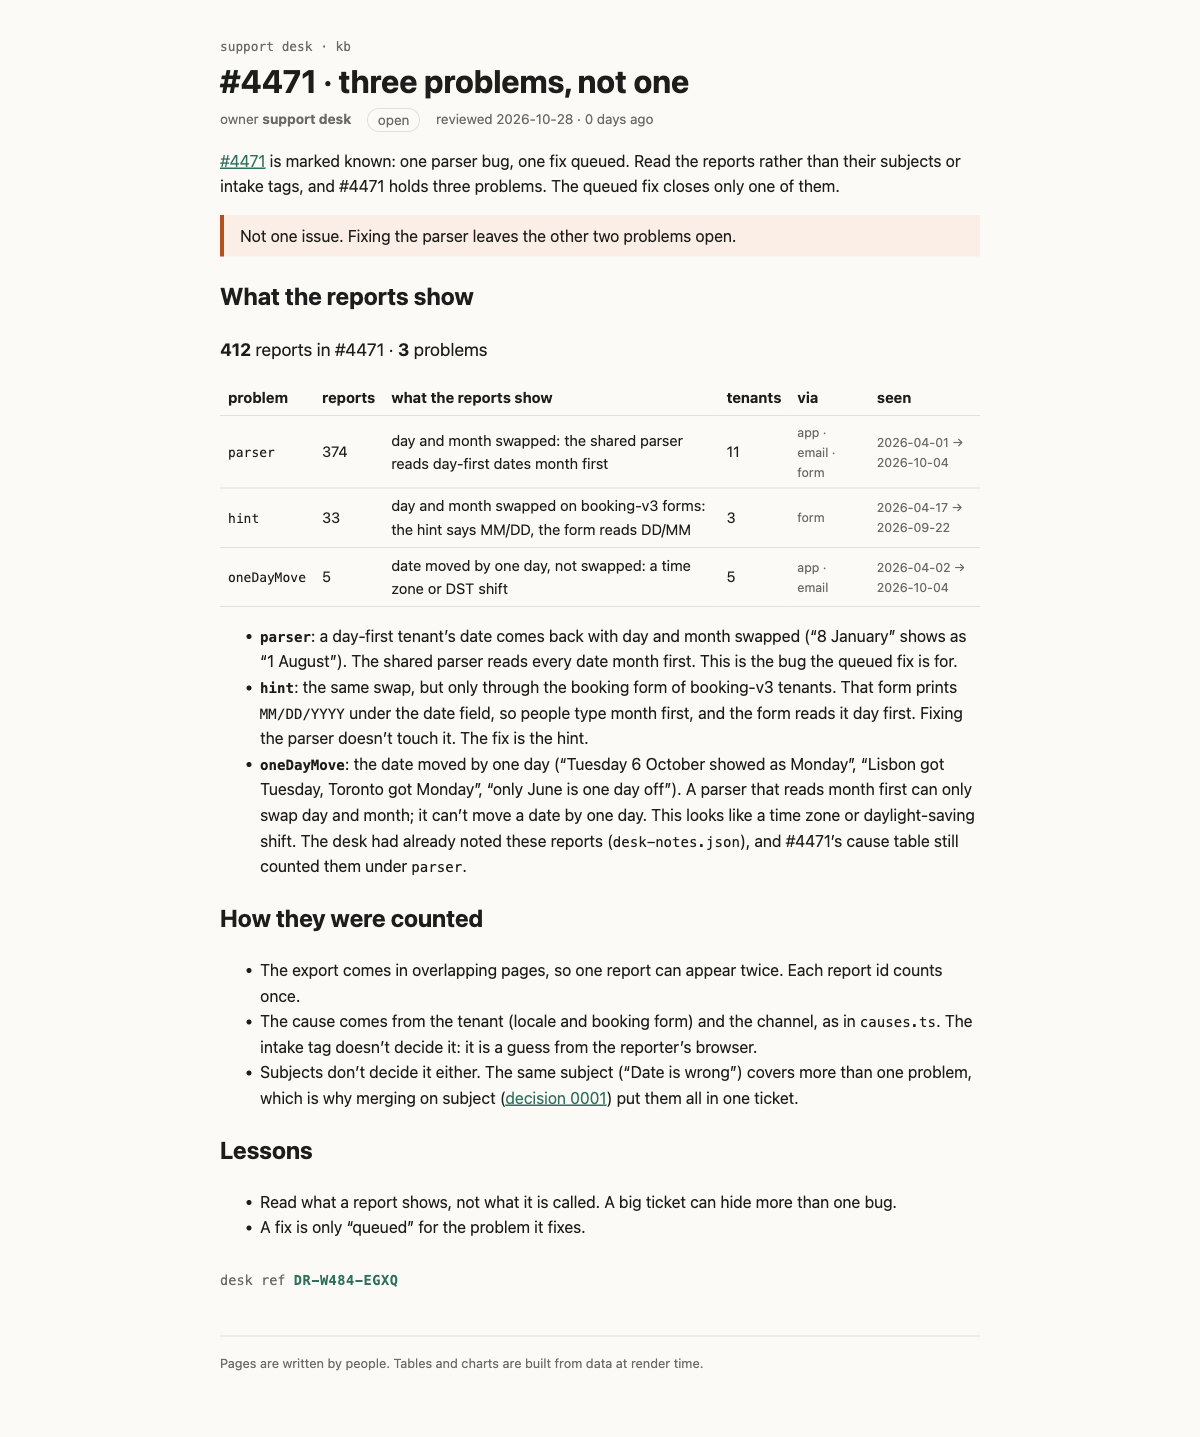
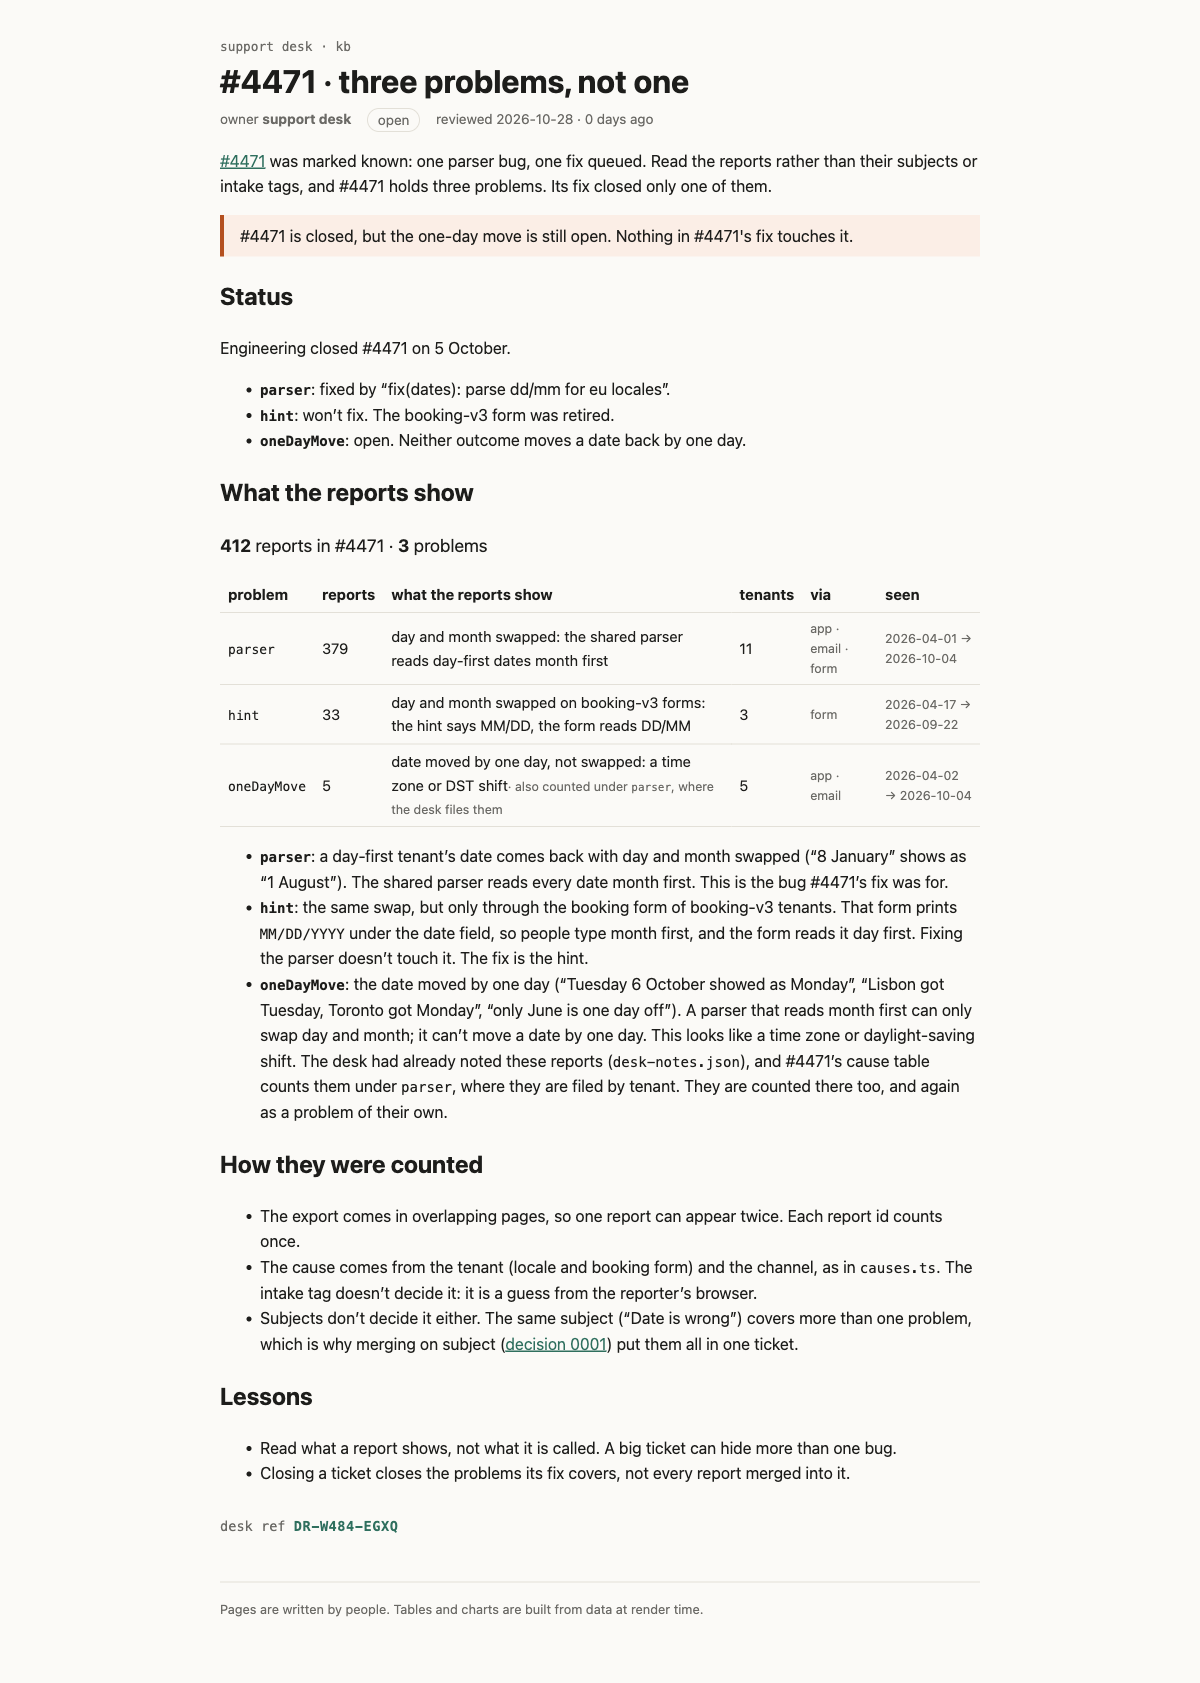
Count #4471 the desk's way and add its status
Parser counts every report filed under it (379), including the 5
one-day moves, which also get their own row. Adds the engineering
outcome: parser fixed, hint won't fix, oneDayMove still open.

Changed region(s): [[0.185, 0.0, 0.8017, 0.9186], [0.185, 0.9492, 0.5858, 0.9798], [0.6167, 0.2756, 0.6783, 0.3062]]

diff --git a/rendered/4471-split.html b/rendered/4471-split.html
@@ -6,51 +6,52 @@
     
 		<link href="../../_app/immutable/assets/runbook.9BJ9BomY.css" rel="stylesheet">
 		<link href="../../_app/immutable/assets/Callout.89E4ZsOX.css" rel="stylesheet">
-		<link href="../../_app/immutable/assets/5.BHShQuJY.css" rel="stylesheet">
-		<link rel="modulepreload" href="../../_app/immutable/entry/start.BGRl9aUl.js">
-		<link rel="modulepreload" href="../../_app/immutable/chunks/CWXOvuGK.js">
+		<link href="../../_app/immutable/assets/5.BYK5M1Ek.css" rel="stylesheet">
+		<link rel="modulepreload" href="../../_app/immutable/entry/start.PChRANt2.js">
+		<link rel="modulepreload" href="../../_app/immutable/chunks/BrLX2Mvt.js">
 		<link rel="modulepreload" href="../../_app/immutable/chunks/CDUBKPtU.js">
 		<link rel="modulepreload" href="../../_app/immutable/chunks/DOCSt34j.js">
-		<link rel="modulepreload" href="../../_app/immutable/entry/app.kXwY4xIq.js">
+		<link rel="modulepreload" href="../../_app/immutable/entry/app.Dqwj5LI9.js">
 		<link rel="modulepreload" href="../../_app/immutable/chunks/DTCqyTHu.js">
 		<link rel="modulepreload" href="../../_app/immutable/chunks/CfeKjdcC.js">
 		<link rel="modulepreload" href="../../_app/immutable/chunks/nsuiweoo.js">
 		<link rel="modulepreload" href="../../_app/immutable/nodes/0.BxTNjOC8.js">
 		<link rel="modulepreload" href="../../_app/immutable/chunks/Asgbeq3j.js">
-		<link rel="modulepreload" href="../../_app/immutable/nodes/5.jouFc-FY.js">
-		<link rel="modulepreload" href="../../_app/immutable/chunks/DYnoW1Fo.js">
+		<link rel="modulepreload" href="../../_app/immutable/nodes/5.WXa6QcC5.js">
+		<link rel="modulepreload" href="../../_app/immutable/chunks/C3OO6kw1.js">
 		<link rel="modulepreload" href="../../_app/immutable/chunks/CV2JMq-L.js">
 		<link rel="modulepreload" href="../../_app/immutable/chunks/QaEWEAoI.js">
 		<link rel="modulepreload" href="../../_app/immutable/chunks/39iA3eqv.js">
 		<link rel="modulepreload" href="../../_app/immutable/chunks/iXLSwIXB.js"><!--[--><!--]--><title>#4471 · three problems, not one · support kb</title>
   </head>
   <body data-sveltekit-preload-data="hover">
-    <div style="display: contents"><!--[--><!--[--><!----><!----><div class="kb svelte-60g32v"><header><a class="crumb svelte-60g32v" href="/kb">support desk · kb</a> <h1 class="svelte-60g32v">#4471 · three problems, not one</h1> <p class="meta svelte-60g32v"><span>owner <b>support desk</b></span> <span class="status open svelte-60g32v">open</span> <span class="svelte-60g32v">reviewed 2026-10-28 · 0 days ago</span></p></header> <!--[!--><!--]--> <main><p><a href="/kb/incidents/4471">#4471</a> is marked known: one parser bug, one fix queued. Read the reports
-rather than their subjects or intake tags, and #4471 holds three problems. The queued fix
-closes only one of them.</p> <aside class="warn svelte-hdh0t2"><!---->Not one issue. Fixing the parser leaves the other two problems open.<!----></aside><!----> <h2>What the reports show</h2> <p class="sum svelte-1pbt4yy"><strong>412</strong> reports in #4471 · <strong>3</strong> problems</p> <table><thead><tr><th>problem</th><th>reports</th><th>what the reports show</th><th>tenants</th><th>via</th><th>seen</th></tr></thead><tbody><!--[--><tr><td><code>parser</code></td><td>374</td><td>day and month swapped: the shared parser reads day-first dates month first</td><td>11</td><td class="via svelte-1pbt4yy">app · email · form</td><td class="via svelte-1pbt4yy">2026-04-01 → 2026-10-04</td></tr><tr><td><code>hint</code></td><td>33</td><td>day and month swapped on booking-v3 forms: the hint says MM/DD, the form reads DD/MM</td><td>3</td><td class="via svelte-1pbt4yy">form</td><td class="via svelte-1pbt4yy">2026-04-17 → 2026-09-22</td></tr><tr><td><code>oneDayMove</code></td><td>5</td><td>date moved by one day, not swapped: a time zone or DST shift</td><td>5</td><td class="via svelte-1pbt4yy">app · email</td><td class="via svelte-1pbt4yy">2026-04-02 → 2026-10-04</td></tr><!--]--></tbody></table><!----> <ul><li><strong><code>parser</code></strong>: a day-first tenant’s date comes back with day and month swapped (“8 January”
-shows as “1 August”). The shared parser reads every date month first. This is the bug the
-queued fix is for.</li> <li><strong><code>hint</code></strong>: the same swap, but only through the booking form of booking-v3 tenants. That
+    <div style="display: contents"><!--[--><!--[--><!----><!----><div class="kb svelte-60g32v"><header><a class="crumb svelte-60g32v" href="/kb">support desk · kb</a> <h1 class="svelte-60g32v">#4471 · three problems, not one</h1> <p class="meta svelte-60g32v"><span>owner <b>support desk</b></span> <span class="status open svelte-60g32v">open</span> <span class="svelte-60g32v">reviewed 2026-10-28 · 0 days ago</span></p></header> <!--[!--><!--]--> <main><p><a href="/kb/incidents/4471">#4471</a> was marked known: one parser bug, one fix queued. Read the reports
+rather than their subjects or intake tags, and #4471 holds three problems. Its fix closed only
+one of them.</p> <aside class="warn svelte-hdh0t2"><!---->#4471 is closed, but the one-day move is still open. Nothing in #4471's fix touches it.<!----></aside><!----> <h2>Status</h2> <p>Engineering closed #4471 on 5 October.</p> <ul><li><strong><code>parser</code></strong>: fixed by “fix(dates): parse dd/mm for eu locales”.</li> <li><strong><code>hint</code></strong>: won’t fix. The booking-v3 form was retired.</li> <li><strong><code>oneDayMove</code></strong>: open. Neither outcome moves a date back by one day.</li></ul> <h2>What the reports show</h2> <p class="sum svelte-aiajzp"><strong>412</strong> reports in #4471 · <strong>3</strong> problems</p> <table><thead><tr><th>problem</th><th>reports</th><th>what the reports show</th><th>tenants</th><th>via</th><th>seen</th></tr></thead><tbody><!--[--><tr><td><code>parser</code></td><td>379</td><td>day and month swapped: the shared parser reads day-first dates month first<!--[!--><!--]--></td><td>11</td><td class="via svelte-aiajzp">app · email · form</td><td class="via svelte-aiajzp">2026-04-01 → 2026-10-04</td></tr><tr><td><code>hint</code></td><td>33</td><td>day and month swapped on booking-v3 forms: the hint says MM/DD, the form reads DD/MM<!--[!--><!--]--></td><td>3</td><td class="via svelte-aiajzp">form</td><td class="via svelte-aiajzp">2026-04-17 → 2026-09-22</td></tr><tr><td><code>oneDayMove</code></td><td>5</td><td>date moved by one day, not swapped: a time zone or DST shift<!--[--><span class="also svelte-aiajzp">· also counted under <code>parser</code>, where the desk files them</span><!--]--></td><td>5</td><td class="via svelte-aiajzp">app · email</td><td class="via svelte-aiajzp">2026-04-02 → 2026-10-04</td></tr><!--]--></tbody></table><!----> <ul><li><strong><code>parser</code></strong>: a day-first tenant’s date comes back with day and month swapped (“8 January”
+shows as “1 August”). The shared parser reads every date month first. This is the bug
+#4471’s fix was for.</li> <li><strong><code>hint</code></strong>: the same swap, but only through the booking form of booking-v3 tenants. That
 form prints <code>MM/DD/YYYY</code> under the date field, so people type month first, and the form
 reads it day first. Fixing the parser doesn’t touch it. The fix is the hint.</li> <li><strong><code>oneDayMove</code></strong>: the date moved by one day (“Tuesday 6 October showed as Monday”,
 “Lisbon got Tuesday, Toronto got Monday”, “only June is one day off”). A parser that reads
 month first can only swap day and month; it can’t move a date by one day. This looks like
 a time zone or daylight-saving shift. The desk had already noted these reports
-(<code>desk-notes.json</code>), and #4471’s cause table still counted them under <code>parser</code>.</li></ul> <h2>How they were counted</h2> <ul><li>The export comes in overlapping pages, so one report can appear twice. Each report id
+(<code>desk-notes.json</code>), and #4471’s cause table counts them under <code>parser</code>, where they are
+filed by tenant. They are counted there too, and again as a problem of their own.</li></ul> <h2>How they were counted</h2> <ul><li>The export comes in overlapping pages, so one report can appear twice. Each report id
 counts once.</li> <li>The cause comes from the tenant (locale and booking form) and the channel, as in <code>causes.ts</code>. The intake tag doesn’t decide it: it is a guess from the reporter’s browser.</li> <li>Subjects don’t decide it either. The same subject (“Date is wrong”) covers more than one
 problem, which is why merging on subject (<a href="/kb/decisions/0001-dedupe-by-subject">decision 0001</a>)
-put them all in one ticket.</li></ul> <h2>Lessons</h2> <ul><li>Read what a report shows, not what it is called. A big ticket can hide more than one bug.</li> <li>A fix is only “queued” for the problem it fixes.</li></ul> <!--[--><p class="stamp svelte-5qojh0">desk ref <b class="svelte-5qojh0">DR-W484-EGXQ</b></p><!--]--><!----><!----></main> <footer class="svelte-60g32v">Pages are written by people. Tables and charts are built from data at render time.</footer></div><!----><!----><!----><!--]--> <!--[!--><!--]--><!--]-->
+put them all in one ticket.</li></ul> <h2>Lessons</h2> <ul><li>Read what a report shows, not what it is called. A big ticket can hide more than one bug.</li> <li>Closing a ticket closes the problems its fix covers, not every report merged into it.</li></ul> <!--[--><p class="stamp svelte-5qojh0">desk ref <b class="svelte-5qojh0">DR-W484-EGXQ</b></p><!--]--><!----><!----></main> <footer class="svelte-60g32v">Pages are written by people. Tables and charts are built from data at render time.</footer></div><!----><!----><!----><!--]--> <!--[!--><!--]--><!--]-->
 			
 			<script>
 				{
-					__sveltekit_1j5r4ke = {
+					__sveltekit_1edwu57 = {
 						base: new URL("../..", location).pathname.slice(0, -1)
 					};
 
 					const element = document.currentScript.parentElement;
 
 					Promise.all([
-						import("../../_app/immutable/entry/start.BGRl9aUl.js"),
-						import("../../_app/immutable/entry/app.kXwY4xIq.js")
+						import("../../_app/immutable/entry/start.PChRANt2.js"),
+						import("../../_app/immutable/entry/app.Dqwj5LI9.js")
 					]).then(([kit, app]) => {
 						kit.start(app, element, {
 							node_ids: [0, 5],

diff --git a/src/lib/kb/problems.ts b/src/lib/kb/problems.ts
@@ -4,22 +4,33 @@ import { causeOf, uniqueById, type Report, type Tenant } from '#lib/kb/causes';
 
 export type Problem = 'parser' | 'hint' | 'oneDayMove' | 'unplaced';
 
-// Day and month swapped (parser, hint) or one day off (oneDayMove). The desk reads the one-day
-// moves by hand (desk-notes.json): a month-first parser only ever swaps day and month.
-export function problemOf(r: Report, t: Tenant | undefined, oneDayMove: readonly string[]): Problem {
-  if (oneDayMove.includes(r.id)) return 'oneDayMove';
-  return causeOf(r, t) ?? 'unplaced';
-}
-
 export type ProblemGroup = {
   problem: Problem;
   reports: Report[];
+  // Reports this group shares with another: the desk counts a report where it is filed.
+  alsoIn: Problem | null;
   tenants: number;
   channels: string[];
   firstSeen: string;
   lastSeen: string;
 };
 
+function group(problem: Problem, rs: Report[], alsoIn: Problem | null): ProblemGroup {
+  const days = rs.map((r) => r.receivedAt.slice(0, 10)).sort();
+  return {
+    problem,
+    reports: rs,
+    alsoIn,
+    tenants: new Set(rs.map((r) => r.tenant)).size,
+    channels: [...new Set(rs.map((r) => r.channel))].sort(),
+    firstSeen: days[0],
+    lastSeen: days[days.length - 1],
+  };
+}
+
+// Day and month swapped (parser, hint) are counted by cause, where the desk files them. One day off
+// (oneDayMove) is read by hand (desk-notes.json): a month-first parser only ever swaps day and month,
+// so those reports are a problem of their own, still counted under the cause they're filed by.
 export function groupByProblem(
   reports: Report[],
   ticket: number,
@@ -27,22 +38,16 @@ export function groupByProblem(
   oneDayMove: readonly string[],
 ): ProblemGroup[] {
   const merged = uniqueById(reports).filter((r) => r.mergedInto === ticket);
-  const byProblem = new Map<Problem, Report[]>();
+  const byCause = new Map<Problem, Report[]>();
   for (const r of merged) {
-    const p = problemOf(r, tenantOf(r), oneDayMove);
-    byProblem.set(p, [...(byProblem.get(p) ?? []), r]);
+    const p = causeOf(r, tenantOf(r)) ?? 'unplaced';
+    byCause.set(p, [...(byCause.get(p) ?? []), r]);
   }
-  return [...byProblem.entries()]
-    .map(([problem, rs]) => {
-      const days = rs.map((r) => r.receivedAt.slice(0, 10)).sort();
-      return {
-        problem,
-        reports: rs,
-        tenants: new Set(rs.map((r) => r.tenant)).size,
-        channels: [...new Set(rs.map((r) => r.channel))].sort(),
-        firstSeen: days[0],
-        lastSeen: days[days.length - 1],
-      };
-    })
-    .sort((a, b) => b.reports.length - a.reports.length);
+  const groups = [...byCause.entries()].map(([p, rs]) => group(p, rs, null));
+  const moved = merged.filter((r) => oneDayMove.includes(r.id));
+  if (moved.length) {
+    const filed = causeOf(moved[0], tenantOf(moved[0])) ?? 'unplaced';
+    groups.push(group('oneDayMove', moved, filed));
+  }
+  return groups.sort((a, b) => b.reports.length - a.reports.length);
 }

diff --git a/src/lib/kb/ProblemTable.svelte b/src/lib/kb/ProblemTable.svelte
@@ -8,7 +8,7 @@
   let { ticket }: { ticket: number } = $props();
 
   const groups = $derived(groupByProblem(reports as Report[], ticket, tenantOf, notes.oneDayMove));
-  const total = $derived(groups.reduce((n, g) => n + g.reports.length, 0));
+  const total = $derived(new Set(groups.flatMap((g) => g.reports.map((r) => r.id))).size);
 
   const SHOWS: Record<Problem, string> = {
     parser: 'day and month swapped: the shared parser reads day-first dates month first',
@@ -33,7 +33,7 @@
       <tr>
         <td><code>{g.problem}</code></td>
         <td>{g.reports.length}</td>
-        <td>{SHOWS[g.problem]}</td>
+        <td>{SHOWS[g.problem]}{#if g.alsoIn}<span class="also"> · also counted under <code>{g.alsoIn}</code>, where the desk files them</span>{/if}</td>
         <td>{g.tenants}</td>
         <td class="via">{g.channels.join(' · ')}</td>
         <td class="via">{g.firstSeen} → {g.lastSeen}</td>
@@ -44,5 +44,5 @@
 
 <style>
   .sum { font-size: 1.1rem; }
-  .via { color: var(--muted); font-size: 0.85em; }
+  .via, .also { color: var(--muted); font-size: 0.85em; }
 </style>
